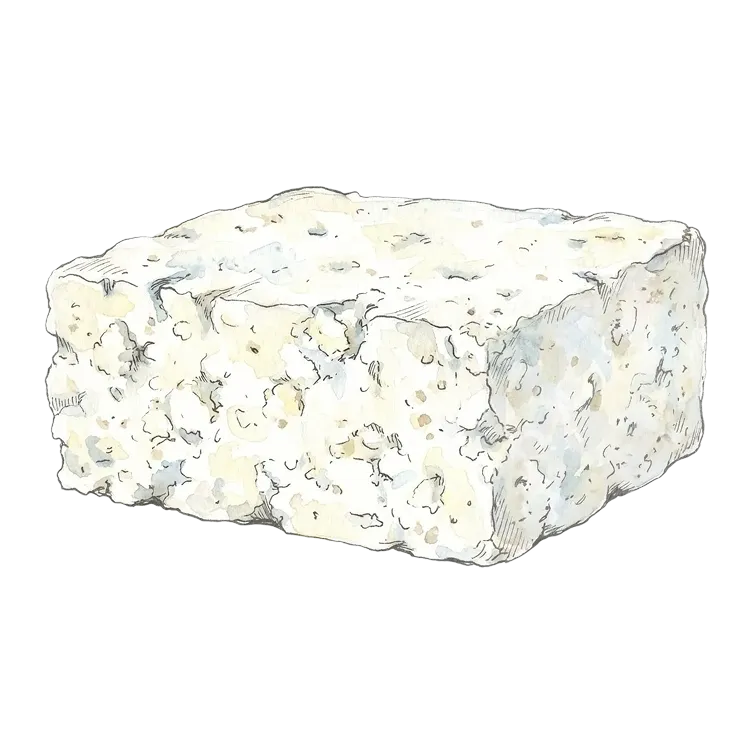
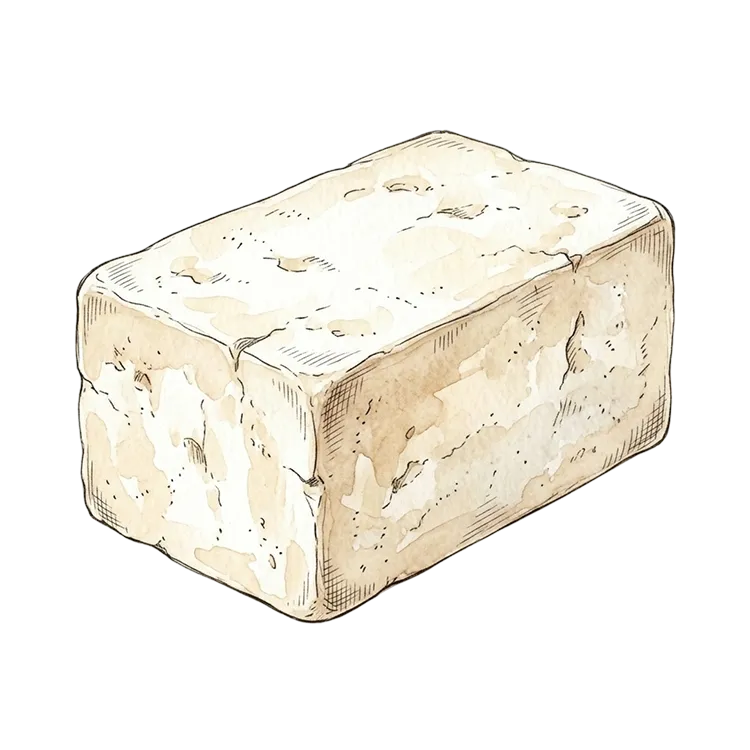
Add Guiso de Trigo recipe and author bylines on recipe pages (#14)
Adds the Guiso de Trigo recipe (Maria Perez) with peeled-wheat ingredient
and refreshed queso-fresco artwork. Introduces an author registry
(lib/authors.ts) and an optional `author` frontmatter field, then renders
"[avatar] Recipe by {Name} · Made by Daniel Chung" in the footer on
recipe pages. Tagged 9 completed recipes with their authors.

Changed region(s): [[0.0613, 0.1533, 0.9507, 0.828], [0.5213, 0.3067, 0.5827, 0.3373]]

diff --git a/components/Footer.tsx b/components/Footer.tsx
@@ -1,14 +1,36 @@
-export default function Footer() {
+import Image from "next/image";
+import { Author } from "@/lib/types";
+
+interface FooterProps {
+  author?: Author;
+}
+
+export default function Footer({ author }: FooterProps) {
   return (
     <footer className="py-7 px-5 md:max-w-[720px] md:mx-auto md:px-0 md:text-left text-center">
-      <a
-        href="https://danielchung.design"
-        target="_blank"
-        rel="noopener noreferrer"
-        className="font-young-serif font-medium text-sm tracking-tight text-neutral-400 transition-colors group"
-      >
-        Made by <span className="group-hover:text-neutral-800 transition-colors">Daniel Chung</span>
-      </a>
+      <div className="flex items-center gap-2 font-young-serif font-medium text-sm tracking-tight text-neutral-400 md:justify-start justify-center">
+        {author && (
+          <>
+            <Image
+              src={author.avatar}
+              alt={author.name}
+              width={28}
+              height={28}
+              className="rounded-full object-cover"
+            />
+            <span>Recipe by {author.name}</span>
+            <span aria-hidden="true">·</span>
+          </>
+        )}
+        <a
+          href="https://danielchung.design"
+          target="_blank"
+          rel="noopener noreferrer"
+          className="transition-colors group"
+        >
+          Made by <span className="group-hover:text-neutral-800 transition-colors">Daniel Chung</span>
+        </a>
+      </div>
     </footer>
   );
 }

diff --git a/lib/authors.ts b/lib/authors.ts
@@ -1,0 +1,14 @@
+import { Author } from "./types";
+
+export const authors: Author[] = [
+  { id: "cabbages-world", name: "Cabbages World", avatar: "/authors/cabbages-world.webp" },
+  { id: "camila-farias", name: "Camila Farias", avatar: "/authors/camila-farias.webp" },
+  { id: "daniel-chung", name: "Daniel Chung", avatar: "/authors/daniel-chung.webp" },
+  { id: "juan-andres-chung", name: "Juan Andres Chung", avatar: "/authors/juan-andres-chung.webp" },
+  { id: "maria-perez", name: "Maria Perez", avatar: "/authors/maria-perez.webp" },
+  { id: "paulina-cocina", name: "Paulina Cocina", avatar: "/authors/paulina-cocina.webp" },
+];
+
+export function getAuthorById(id: string): Author | undefined {
+  return authors.find((a) => a.id === id);
+}

diff --git a/app/recipes/[slug]/page.tsx b/app/recipes/[slug]/page.tsx
@@ -1,5 +1,6 @@
 import type { Metadata } from "next";
 import { getRecipeBySlug } from "@/lib/recipes";
+import { getAuthorById } from "@/lib/authors";
 import { notFound } from "next/navigation";
 import PageLayout from "@/components/PageLayout";
 import IngredientImageCarousel from "@/components/IngredientImageCarousel";
@@ -30,8 +31,12 @@ export default function RecipePage({ params }: RecipePageProps) {
     notFound();
   }
 
+  const author = recipe.frontmatter.author
+    ? getAuthorById(recipe.frontmatter.author)
+    : undefined;
+
   return (
-    <PageLayout>
+    <PageLayout author={author}>
       <div className="max-w-[720px] mx-auto">
         <h1 className={`${typography.h1} mb-5`}>
           {recipe.frontmatter.title}

diff --git a/lib/types.ts b/lib/types.ts
@@ -7,6 +7,7 @@ export interface RecipeFrontmatter {
   prepTime: string;
   cookTime: string;
   ingredientImages: string[];
+  author?: string;
 }
 
 export interface Recipe {
@@ -20,4 +21,10 @@ export interface Ingredient {
   name: string;
   category: string;
   image?: string;
+}
+
+export interface Author {
+  id: string;
+  name: string;
+  avatar: string;
 }

diff --git a/components/PageLayout.tsx b/components/PageLayout.tsx
@@ -1,19 +1,23 @@
 import { ReactNode } from "react";
 import Navigation from "./Navigation";
+import Footer from "./Footer";
+import { Author } from "@/lib/types";
 import { colors, spacing } from "@/lib/tokens";
 
 interface PageLayoutProps {
   children: ReactNode;
   activePage?: "index" | "ingredients";
+  author?: Author;
 }
 
-export default function PageLayout({ children, activePage }: PageLayoutProps) {
+export default function PageLayout({ children, activePage, author }: PageLayoutProps) {
   return (
     <div className={`min-h-screen ${colors.bg.page} overflow-x-hidden`}>
       <div className={spacing.page}>
         <Navigation activePage={activePage} />
         {children}
       </div>
+      <Footer author={author} />
     </div>
   );
 }

diff --git a/app/layout.tsx b/app/layout.tsx
@@ -1,7 +1,6 @@
 import type { Metadata } from "next";
 import type { ReactNode } from "react";
 import localFont from "next/font/local";
-import Footer from "@/components/Footer";
 import "./globals.css";
 
 // Import Source Serif Pro font family
@@ -120,7 +119,6 @@ export default function RootLayout({
     <html lang="en" className={`${sourceSerifPro.variable} ${youngSerif.variable}`}>
       <body className="antialiased">
         {children}
-        <Footer />
       </body>
     </html>
   );

diff --git a/lib/ingredients.ts b/lib/ingredients.ts
@@ -64,6 +64,7 @@ export const ingredients: Ingredient[] = [
   { id: "77", name: "Parmesan Cheese", category: "Dairy", image: "/ingredients/parmesan-cheese.webp" },
   { id: "25", name: "Parsley", category: "Aromatics", image: "/ingredients/parsley.webp" },
   { id: "84", name: "Passion Fruit", category: "Fruits", image: "/ingredients/passion-fruit.webp" },
+  { id: "101", name: "Peeled Wheat", category: "Grains", image: "/ingredients/peeled-wheat.webp" },
   { id: "36", name: "Pineapple", category: "Fruits", image: "/ingredients/pineapple.webp" },
   { id: "1", name: "Potato", category: "Vegetables", image: "/ingredients/potato.webp" },
   { id: "70", name: "Queso Fresco", category: "Dairy", image: "/ingredients/queso-fresco.webp" },

diff --git a/content/recipes/guiso-de-trigo.md b/content/recipes/guiso-de-trigo.md
@@ -1,14 +1,42 @@
 ---
 title: "Guiso de Trigo"
 slug: "guiso-de-trigo"
-id: "15"
+id: "32"
 category: ""
 servings: 0
 prepTime: ""
 cookTime: ""
-ingredientImages: []
+author: "maria-perez"
+ingredientImages:
+  - /ingredients/garlic.webp
+  - /ingredients/aji-amarillo.webp
+  - /ingredients/peeled-wheat.webp
+  - /ingredients/oil.webp
+  - /ingredients/queso-fresco.webp
+  - /ingredients/whole-milk.webp
 ---
 
 ## Ingredients
 
+- 1 taza de trigo
+- Aceite
+- 2 cucharadas de pasta de ají amarillo
+- 1 cucharada de ajo molido
+- Comino
+- Orégano
+- Cúrcuma
+- Kión en polvo
+- Sal
+- Pimienta
+- Queso fresco
+- Leche de vaca
+
 ## Steps
+
+Remojar el trigo toda la noche. Escurrir el agua y enjuagar un par de veces.
+
+Colocar unas tres cucharadas de aceite en la olla y agregar el ajo molido, orégano, pimienta, comino, cúrcuma al gusto, kión en polvo, sal y dos cucharadas de ají amarillo (Amarillin). Mover todos los ingredientes por unos minutos.
+
+Verter el trigo y mezclarlo con el aderezo. Agregar agua hasta cubrir completamente el trigo y dejar que se cocine. Ir revisando la cocción y, si es necesario aumentar agua, es importante que sea agua caliente.
+
+Cuando el trigo esté suave, agregar unos trozos de queso fresco y un poco de leche fresca de vaca.

diff --git a/content/recipes/big-steak-pepper-rice.md b/content/recipes/big-steak-pepper-rice.md
@@ -6,6 +6,7 @@ category: ""
 servings: 0
 prepTime: ""
 cookTime: ""
+author: "cabbages-world"
 ingredientImages:
   - /ingredients/honey.webp
   - /ingredients/butter.webp

diff --git a/content/recipes/chicken-noodle-soup.md b/content/recipes/chicken-noodle-soup.md
@@ -6,6 +6,7 @@ category: "Soups"
 servings: 4
 prepTime: "10 min"
 cookTime: "25 min"
+author: "daniel-chung"
 ingredientImages:
   - /ingredients/carrot.webp
   - /ingredients/potato.webp

diff --git a/content/recipes/katsu-curry.md b/content/recipes/katsu-curry.md
@@ -6,6 +6,7 @@ category: ""
 servings: 0
 prepTime: ""
 cookTime: ""
+author: "daniel-chung"
 ingredientImages:
   - /ingredients/golden-curry.webp
   - /ingredients/honey.webp

diff --git a/content/recipes/milanesas-argentinas.md b/content/recipes/milanesas-argentinas.md
@@ -6,6 +6,7 @@ category: ""
 servings: 0
 prepTime: ""
 cookTime: ""
+author: "paulina-cocina"
 ingredientImages:
   - /ingredients/eggs.webp
   - /ingredients/top-round.webp